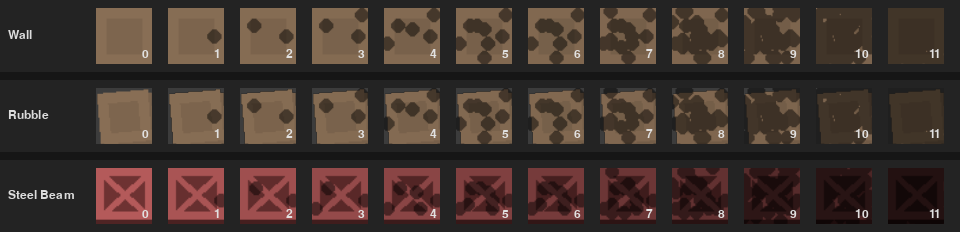
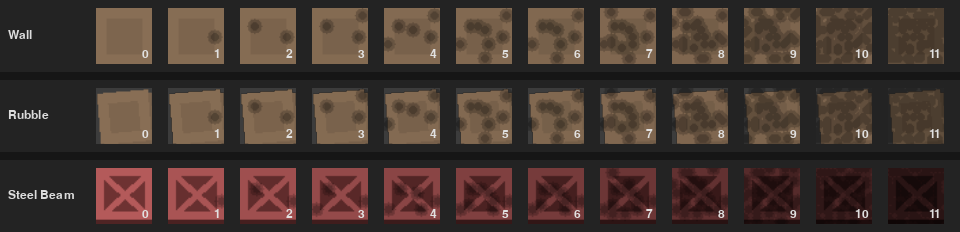
tweak(render): adjust wall damage alpha mask levels

diff --git a/src/zombie_escape/render_assets.py b/src/zombie_escape/render_assets.py
@@ -62,6 +62,10 @@ _RUBBLE_SURFACE_CACHE: dict[tuple, pygame.Surface] = {}
 _HUMANOID_SURFACE_EXTENT_RATIO = 2.0
 _PIXEL_ORDER_CACHE: dict[int, tuple[tuple[int, int], ...]] = {}
 _WALL_DAMAGE_MASK_BASE_SIZE = 128
+_WALL_DAMAGE_OVERLAY_CACHE: dict[
+    tuple[int, int, int, int, int],
+    tuple[pygame.Surface, ...],
+] = {}
 
 RUBBLE_ROTATION_DEG = 5.0
 RUBBLE_OFFSET_RATIO = 0.06
@@ -382,45 +386,18 @@ def paint_wall_damage_overlay(
     if radius <= 0:
         return
 
-    shared_positions = _PIXEL_ORDER_CACHE.get(seed)
-    if shared_positions is None:
-        shuffled_positions = [
-            (x, y)
-            for y in range(_WALL_DAMAGE_MASK_BASE_SIZE)
-            for x in range(_WALL_DAMAGE_MASK_BASE_SIZE)
-            if (x % 3 == 0 and y % 3 == 0)
-        ]
-        rng = random.Random(seed)
-        rng.shuffle(shuffled_positions)
-        shared_positions = tuple(shuffled_positions)
-        _PIXEL_ORDER_CACHE[seed] = shared_positions
-
-    positions = tuple(
-        (x, y) for x, y in shared_positions if (x < width and y < height)
+    alpha = 100
+    ratio_milli = max(1, int(round(circle_size_ratio * 1000)))
+    overlays = _get_wall_damage_overlays(
+        width=width,
+        height=height,
+        seed=seed,
+        steps=resolved_steps,
+        radius=radius,
+        alpha=alpha,
+        ratio_milli=ratio_milli,
     )
-    if not positions:
-        return
-
-    # Fibonacci-like progression with custom seeds: 0, 1, 2, 3, 5, 8, ...
-    mark_count = min(len(positions), _damage_mark_count_for_level(level))
-
-    alpha = 120
-    coverage_mask = pygame.Surface((width, height), pygame.SRCALPHA)
-    for cx, cy in positions[:mark_count]:
-        mark_radius = max(1, radius - 1)
-        diameter = (mark_radius * 2) + 1
-        mark_surface = pygame.Surface((diameter, diameter), pygame.SRCALPHA)
-        pygame.draw.circle(
-            mark_surface,
-            (255, 255, 255, 255),
-            (mark_radius, mark_radius),
-            mark_radius,
-        )
-        coverage_mask.blit(mark_surface, (cx - mark_radius, cy - mark_radius))
-    overlay = pygame.Surface((width, height), pygame.SRCALPHA)
-    overlay.fill((0, 0, 0, alpha))
-    overlay.blit(coverage_mask, (0, 0), special_flags=pygame.BLEND_RGBA_MULT)
-    surface.blit(overlay, (0, 0))
+    surface.blit(overlays[level], (0, 0))
 
 
 def _damage_mark_count_for_level(level: int) -> int:
@@ -434,6 +411,91 @@ def _damage_mark_count_for_level(level: int) -> int:
     for _ in range(3, level + 1):
         prev, cur = cur, prev + cur
     return cur
+
+
+def _shared_damage_positions(seed: int) -> tuple[tuple[int, int], ...]:
+    positions = _PIXEL_ORDER_CACHE.get(seed)
+    if positions is not None:
+        return positions
+    shuffled_positions = [
+        (x, y)
+        for y in range(_WALL_DAMAGE_MASK_BASE_SIZE)
+        for x in range(_WALL_DAMAGE_MASK_BASE_SIZE)
+        if (x % 3 == 0 and y % 3 == 0)
+    ]
+    rng = random.Random(seed)
+    rng.shuffle(shuffled_positions)
+    positions = tuple(shuffled_positions)
+    _PIXEL_ORDER_CACHE[seed] = positions
+    return positions
+
+
+def _get_wall_damage_overlays(
+    *,
+    width: int,
+    height: int,
+    seed: int,
+    steps: int,
+    radius: int,
+    alpha: int,
+    ratio_milli: int,
+) -> tuple[pygame.Surface, ...]:
+    cache_key = (width, height, seed, steps, ratio_milli)
+    cached = _WALL_DAMAGE_OVERLAY_CACHE.get(cache_key)
+    if cached is not None:
+        return cached
+
+    shared_positions = _shared_damage_positions(seed)
+    positions = [(x, y) for x, y in shared_positions if (x < width and y < height)]
+    empty = pygame.Surface((width, height), pygame.SRCALPHA)
+    if not positions:
+        overlays = tuple(empty.copy() for _ in range(steps))
+        _WALL_DAMAGE_OVERLAY_CACHE[cache_key] = overlays
+        return overlays
+
+    mark_radius = max(1, radius - 1)
+    diameter = (mark_radius * 2) + 1
+    mark_surface = pygame.Surface((diameter, diameter), pygame.SRCALPHA)
+    center = mark_radius
+    radius_sq = max(1.0, float(mark_radius * mark_radius))
+    core_radius_sq = radius_sq * 0.36
+    for py in range(diameter):
+        dy = py - center
+        for px in range(diameter):
+            dx = px - center
+            dist_sq = float(dx * dx + dy * dy)
+            if dist_sq > radius_sq:
+                continue
+            # Two-step mask: darker core + lighter ring.
+            local_alpha = 255 if dist_sq <= core_radius_sq else 140
+            if local_alpha <= 0:
+                continue
+            mark_surface.set_at((px, py), (255, 255, 255, local_alpha))
+    overlay_base = pygame.Surface((width, height), pygame.SRCALPHA)
+    overlay_base.fill((0, 0, 0, alpha))
+
+    coverage_mask = pygame.Surface((width, height), pygame.SRCALPHA)
+    built: list[pygame.Surface] = []
+    prev_mark_count = 0
+    for level in range(steps):
+        target_count = min(len(positions), _damage_mark_count_for_level(level))
+        for cx, cy in positions[prev_mark_count:target_count]:
+            coverage_mask.blit(
+                mark_surface,
+                (cx - mark_radius, cy - mark_radius),
+                special_flags=pygame.BLEND_RGBA_MAX,
+            )
+        prev_mark_count = target_count
+        if target_count <= 0:
+            built.append(empty.copy())
+            continue
+        overlay = overlay_base.copy()
+        overlay.blit(coverage_mask, (0, 0), special_flags=pygame.BLEND_RGBA_MULT)
+        built.append(overlay)
+
+    overlays = tuple(built)
+    _WALL_DAMAGE_OVERLAY_CACHE[cache_key] = overlays
+    return overlays
 
 
 _CAR_COLOR_SCHEMES: dict[str, dict[str, tuple[int, int, int]]] = {
